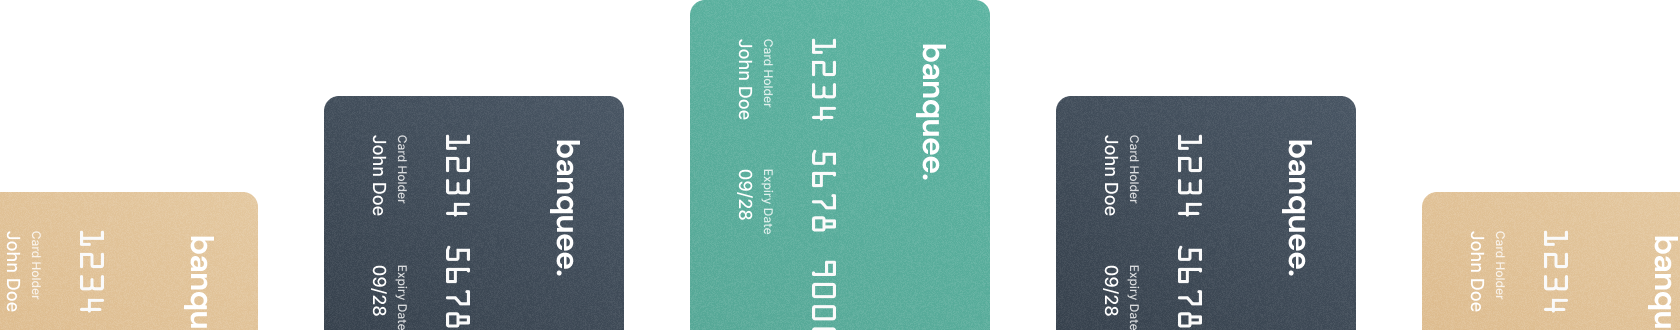
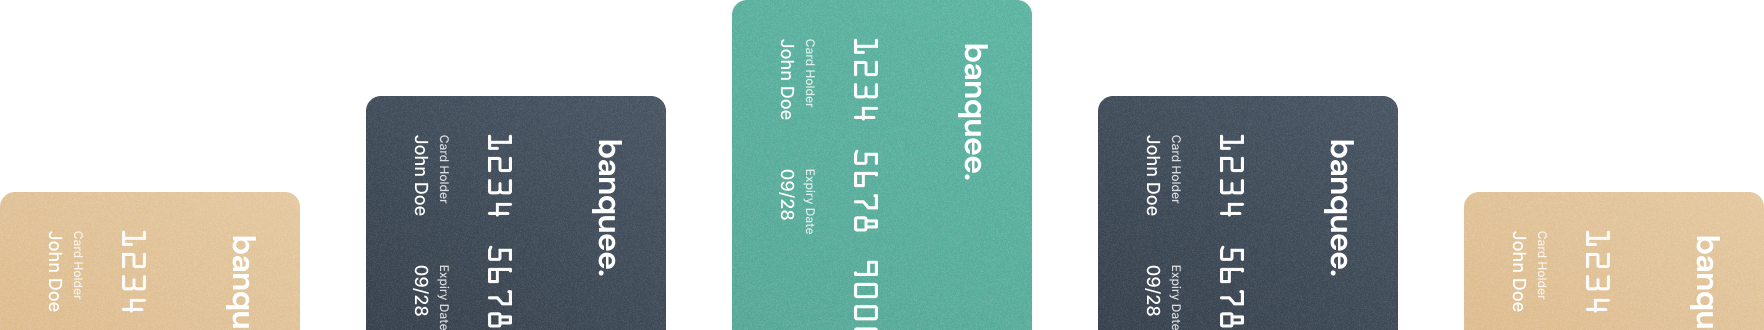
Complete Features Intro styling

diff --git a/src/sass/components/intro/_features-intro.scss b/src/sass/components/intro/_features-intro.scss
@@ -1,0 +1,63 @@
+@use "sass:math";
+@use "../../abstracts" as *;
+
+.features-intro {
+	background-color: var(--clr-primary-100);
+	padding-top: 4rem;
+	margin-top: 1.5rem;
+
+	@include minw-mq(75em) {
+		padding-top: 8rem;
+	}
+}
+
+.features-intro__text {
+	text-align: center;
+	padding-inline: 1.5rem;
+}
+
+.features-intro__tag {
+	margin-bottom: .5rem;
+}
+
+.features-intro__buttons {
+	display: flex;
+	align-items: center;
+	justify-content: center;
+	column-gap: 1rem;
+
+	@include minw-mq(30em) {
+		column-gap: 2rem;
+	}
+}
+
+.features-intro__buttons a {
+	font-size: .9375rem;
+
+	@include minw-mq(30em) {
+		font-size: 1rem;
+	}
+
+	@include minw-mq(55em) {
+		font-size: 1.125rem;
+	}
+}
+
+.features-intro__image {
+	display: flex;
+	justify-content: center;
+	margin-top: 2rem;
+
+	@include minw-mq(55em) {
+		margin-top: 3.5rem;
+	}
+
+	@include minw-mq(75em) {
+		margin-top: 7.5rem;
+	}
+}
+
+.features-intro__picture {
+	height: 330px;
+	object-fit: none;
+}

diff --git a/src/sass/components/_index.scss b/src/sass/components/_index.scss
@@ -4,6 +4,7 @@
 @forward './blog/blog-post-small';
 @forward './blog/blog';
 @forward './intro/homepage-intro';
+@forward './intro/features-intro';
 @forward './app/app';
 @forward './transactions/transactions-green';
 @forward './savings/organizer';
@@ -14,3 +15,4 @@
 @forward './testimonials/testimonials';
 @forward './app/app-banner';
 @forward './help/help';
+@forward './all-in-one/all-in-one';

diff --git a/src/sass/elements/_tags.scss b/src/sass/elements/_tags.scss
@@ -1,6 +1,17 @@
 @use "sass:math";
 @use "../abstracts" as *;
 
+.section-tag {
+	display: inline-block;
+	font-size: 1rem;
+	line-height: 1.2;
+	letter-spacing: -.03em;
+
+	@include minw-mq(55em) {
+		font-size: 1.25rem;
+	}
+}
+
 .tag {
 	display: inline-block;
 	font-family: 'Inter';

diff --git a/src/sass/elements/_text-elements.scss b/src/sass/elements/_text-elements.scss
@@ -21,13 +21,3 @@
 		}
 	}
 }
-
-.section-tag {
-	font-size: 1rem;
-	line-height: 1.2;
-	letter-spacing: -.03em;
-
-	@include minw-mq(55em) {
-		font-size: 1.25rem;
-	}
-}

diff --git a/src/sass/components/_header.scss b/src/sass/components/_header.scss
@@ -33,7 +33,7 @@
 		inset: 0;
 		background-color: var(--clr-neutral-0);
 		row-gap: 5.5rem;
-		padding: 3.5rem 4.5rem;
+		padding: 3.5rem 1.5rem;
 		z-index: 1;
 	}
 }

diff --git a/src/sass/components/intro/_homepage-intro.scss b/src/sass/components/intro/_homepage-intro.scss
@@ -9,7 +9,7 @@
 	
 	
 	@include minw-mq(75em) {
-		padding-block: 8rem;
+		padding-block: 9.5rem 8rem;
 		column-gap: 10.25rem;
 	}
 }

diff --git a/src/sass/components/all-in-one/_all-in-one.scss b/src/sass/components/all-in-one/_all-in-one.scss
@@ -1,0 +1,2 @@
+@use "sass:math";
+@use "../../abstracts" as *;
